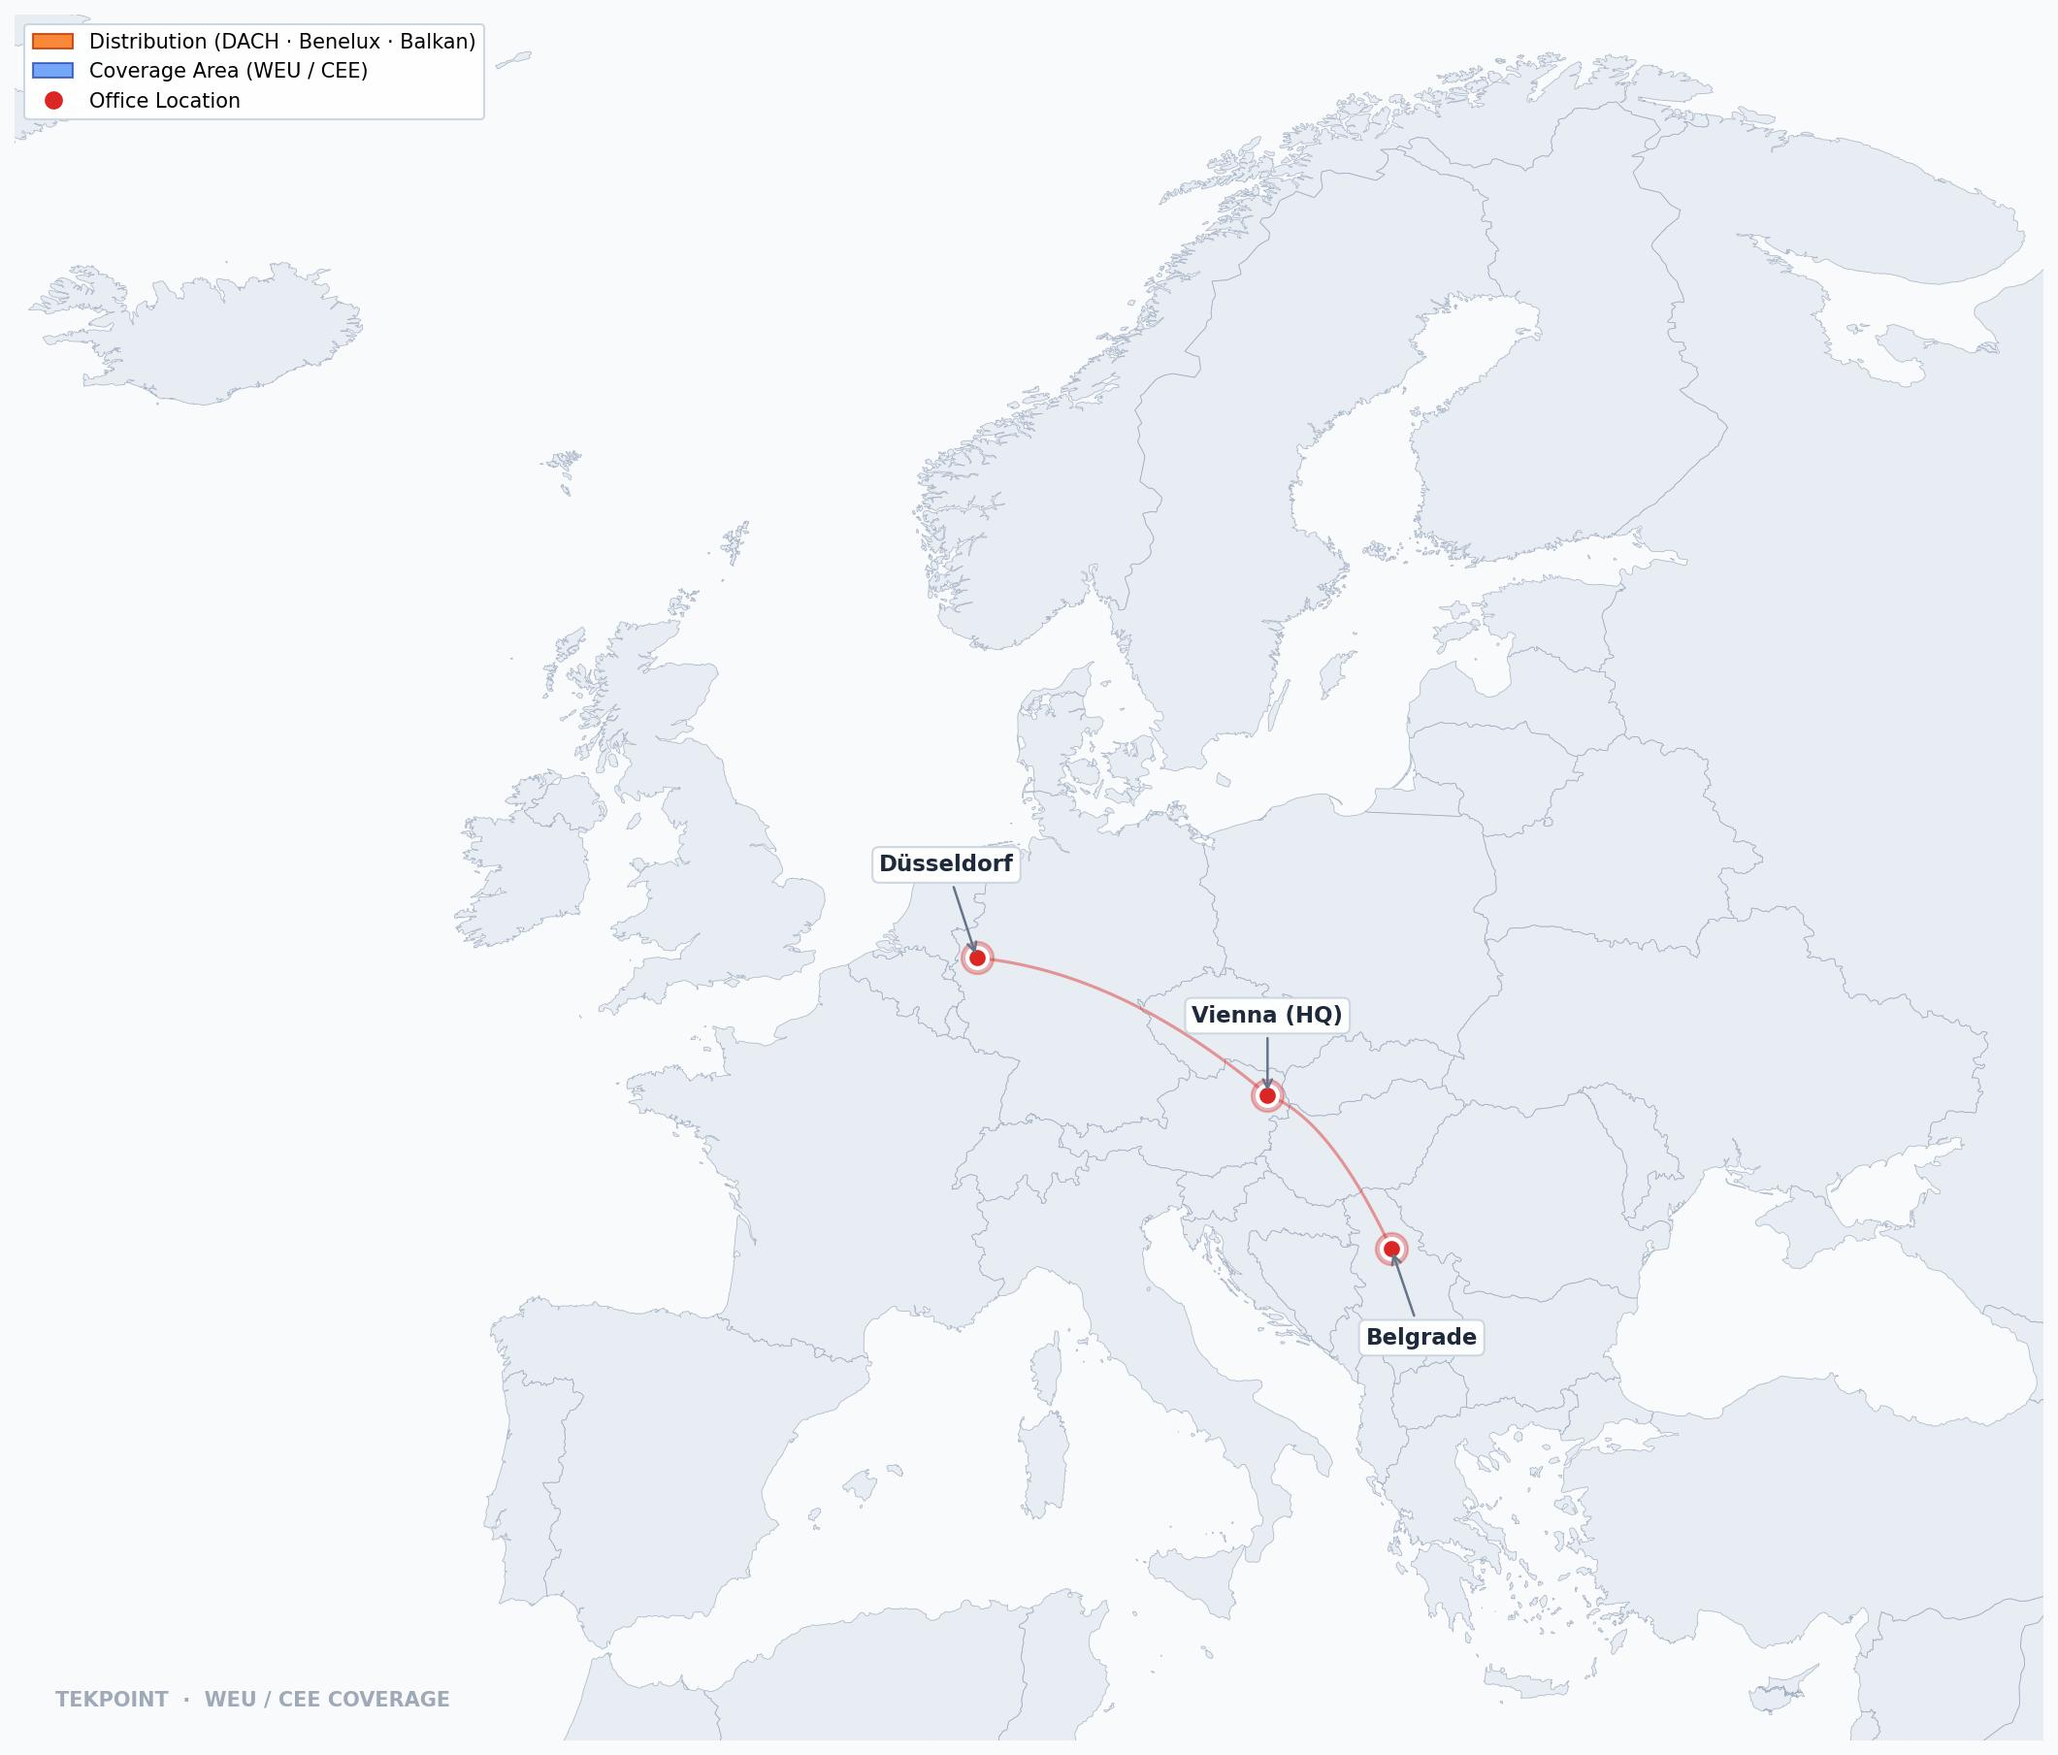
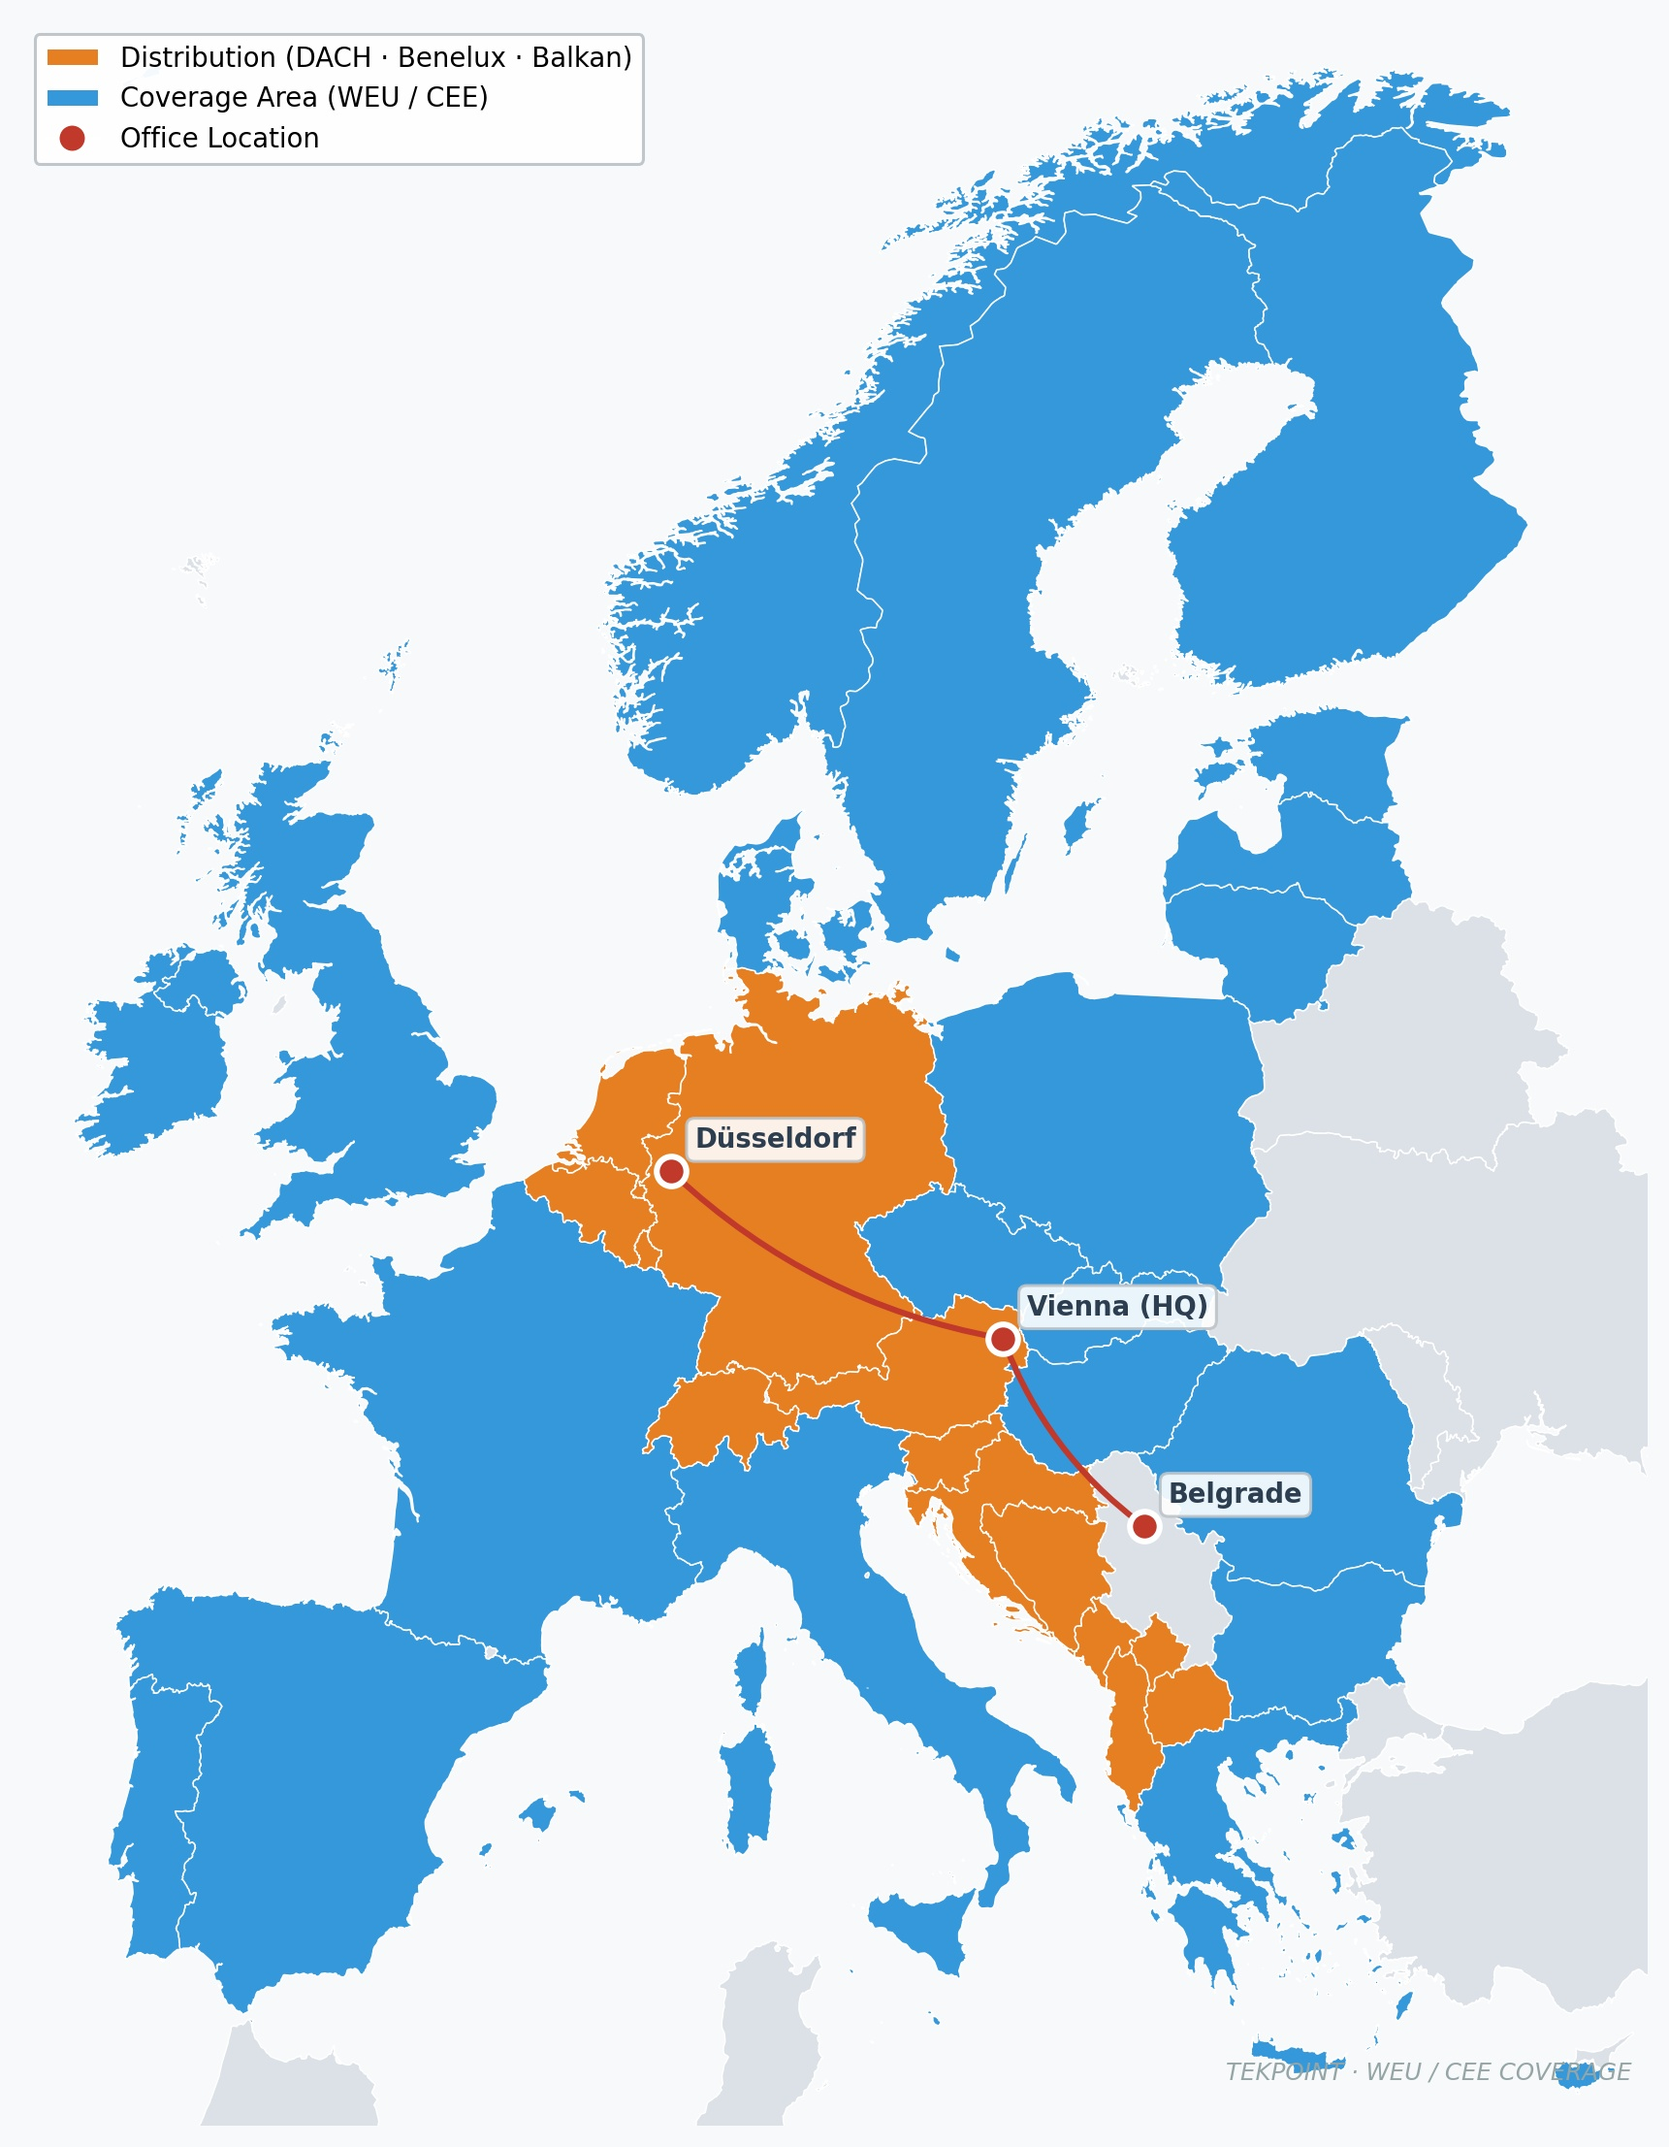
About page: replace portraits with warehouse team photo + fix EU map colors

diff --git a/src/app/[locale]/about/page.tsx b/src/app/[locale]/about/page.tsx
@@ -56,13 +56,8 @@ export default async function AboutPage({ params }: { params: Promise<{ locale: 
                 </Link>
               </div>
             </div>
-            <div className="grid grid-cols-2 gap-4 items-start">
-              <div className="aspect-[4/5] rounded-2xl overflow-hidden bg-gray-100">
-                <img src="/images/team/mark-schwarzgorn.png" alt={t("about_33")} className="w-full h-full object-cover" />
-              </div>
-              <div className="aspect-[4/5] rounded-2xl overflow-hidden bg-gray-100 md:mt-8">
-                <img src="/images/DSC_7249-Exposure-min.jpg" alt={t("about_34")} className="w-full h-full object-cover" />
-              </div>
+            <div className="rounded-2xl overflow-hidden bg-gray-100">
+              <img src="/images/image_new12-jpg.webp" alt={t("about_33")} className="w-full h-full object-cover" />
             </div>
           </div>
         </div>
